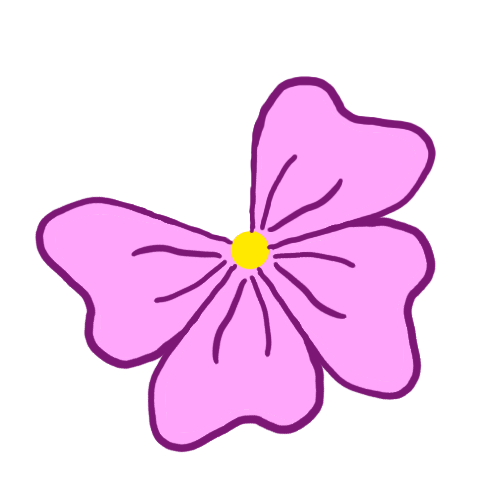
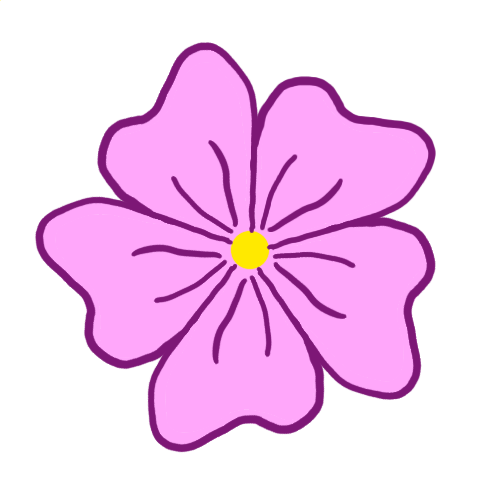
update logic of flower rendering

Changed region(s): [[0.18, 0.06, 0.54, 0.48]]

diff --git a/screens/ToDoList.jsx b/screens/ToDoList.jsx
@@ -1,21 +1,10 @@
 import * as React from 'react';
-import { FLOWER1, FLOWER2, FLOWER3, FLOWER4, FLOWER5, FLOWER6, FLOWER7, FLOWER8, FLOWERCENTER } from '../assets/images';
+import { FLOWER1, FLOWER2, FLOWER3, FLOWER4, FLOWER5, FLOWER6, FLOWER7, FLOWER8, FLOWERCENTER, flowerImages } from '../assets/images';
 import { useState, useEffect } from 'react';
 import { useFonts, Montserrat_800ExtraBold } from '@expo-google-fonts/montserrat';
 import AsyncStorage from '@react-native-async-storage/async-storage';
-import { StyleSheet, Image, Text, View, TextInput, TouchableOpacity, Pressable, KeyboardAvoidingView } from 'react-native';
-
-const flowerImages = [
-  FLOWERCENTER,
-  FLOWER1,
-  FLOWER2,
-  FLOWER3,
-  FLOWER4,
-  FLOWER5,
-  FLOWER6,
-  FLOWER7,
-  FLOWER8,
-];
+import { StyleSheet, Image, Text, View, TextInput, TouchableOpacity, Pressable, KeyboardAvoidingView, ScrollView } from 'react-native';
+import flowers from '../logic/setFlowers';
 
 const ToDoList = () => {
   const [task, setTask] = useState({text: '', done: false});
@@ -57,27 +46,6 @@ const ToDoList = () => {
     }
   }
 
-  const flowerPathLogic = (score) => {
-    const completeFlowers = Math.floor(score / 8);
-    const remainder = score % (flowerImages.length - 1);
-
-    let flowerRoutes = [];
-
-    for (let i = 0; i < completeFlowers; i++) {
-      flowerRoutes.push(8);
-    }
-
-    if (remainder !== 0) {
-      flowerRoutes.push(remainder);
-    }
-
-    if (flowerRoutes.length === 0) {
-      return [0];
-    }
-    console.log(flowerRoutes)
-    return flowerRoutes;
-  }
-
   const loadData = async () => {
     try {
       let storedDate = await AsyncStorage.getItem('date')
@@ -109,7 +77,7 @@ const ToDoList = () => {
     const loadFonts = async () => {
       await AsyncStorage.setItem('score', score.toString());
       await loadData();
-      setFlowerPaths(flowerPathLogic(score))
+      setFlowerPaths(flowers(score))
     }
     loadFonts();
   }, []);
@@ -140,14 +108,14 @@ const ToDoList = () => {
         updatedTasks[index].done = !updatedTasks[index].done
         setScore((prevScore) => {
           const newScore = prevScore + 1
-          setFlowerPaths(flowerPathLogic(newScore))
+          setFlowerPaths(flowers(newScore))
           return newScore
         })
       } else {
         updatedTasks[index].done = !updatedTasks[index].done
         setScore((prevScore) => {
           const newScore = prevScore - 1
-          setFlowerPaths(flowerPathLogic(newScore))
+          setFlowerPaths(flowers(newScore))
           return newScore
         })
       }
@@ -181,11 +149,12 @@ const ToDoList = () => {
         {/*   </Pressable> */}
       </View>
     <View style={{flex: 5}}>
-      <View style={styles.imageContainer}>
-        {flowerPaths.map((number, index) => (
-            <Image key={index} source={flowerImages[number]} style={styles.image}/>
+      <ScrollView horizontal={true} style={styles.imageContainer}>
+        {flowerPaths.slice(0).reverse().map((flower, index) => (
+            <Image key={index} source={flowerImages[flower.name][flower.routeNum]} style={styles.image}/>
         ))}
-      </View>
+      </ScrollView>
+          <ScrollView style={styles.tasksView}>
       {tasks.map((t, index) => (
         <View key={index} style={styles.taskContainer}>
           <TouchableOpacity
@@ -210,6 +179,7 @@ const ToDoList = () => {
           <Text style={t.done ? styles.completedTask : styles.normalTask}>{t.text}</Text>
         </View>
       ))}
+          </ScrollView>
         </View>
         <TextInput 
           value={task.text}
@@ -231,13 +201,20 @@ const styles = StyleSheet.create({
     flexDirection: 'column',
   },
     imageContainer: {
+    flexGrow: 1,
+    maxHeight: 85,
     flexDirection: 'row',
+    marginHorizontal: 10,
+    overflow: 'scroll',
   },
     image: {
-    width: 100,
-    height: 100,
-    margin: 10,
+    width: 80,
+    height: 80,
     resizeMode: 'cover',
+  },
+  tasksView: {
+    flexGrow: 15,
+
   },
   textInput: {
     backgroundColor: "black",
@@ -262,8 +239,8 @@ const styles = StyleSheet.create({
     flex: 1,
   },
    checkbox: {
-    width: 30,
-    height: 30,
+    width: 20,
+    height: 20,
     borderRadius: 15,
     borderWidth: 1,
     justifyContent: 'center',
@@ -275,13 +252,13 @@ const styles = StyleSheet.create({
   completedTask: {
     textDecorationLine: 'line-through',
     color: '#54428e',
-    fontSize: 30,
+    fontSize: 20,
     textAlign: 'center',
     flex: 9,
   },
   normalTask: {
     color: 'white',
-    fontSize: 30,
+    fontSize: 20,
     textAlign: 'center',
     flex: 9,
   },

diff --git a/logic/setFlowers.js b/logic/setFlowers.js
@@ -1,0 +1,39 @@
+const flowerNames = [
+  'sakura',
+  'sakuraRed',
+  'sakuraPurple',
+  'sakuraPeach',
+  'sakuraOrange',
+  'sakuraGreen',
+  'sakuraBlue'
+]
+
+const flowers = (score) => {
+  let completeFlowers = Math.floor(score / 5);
+  let allFlowerTypesNum = Math.floor(completeFlowers / flowerNames.length - 1);
+  let remainingCompleteFlowers = completeFlowers % (flowerNames.length - 1);
+  const remainder = score % (5);
+  const flowers = []
+
+  for (let i = 0; i < allFlowerTypesNum; i++) {
+    for (let j = 0; j < flowerNames.length; j++) {
+      flowers.push({
+        name: flowerNames[j],
+        routeNum: 5,
+      })
+    }
+  }
+  for (let i = 0; i < remainingCompleteFlowers; i++) {
+    flowers.push({
+      name: flowerNames[i],
+      routeNum: 5,
+    })
+  }
+
+  flowers.push({
+    name: flowerNames[remainingCompleteFlowers % flowerNames.length],
+    routeNum: remainder,
+  })
+  return flowers
+}
+export default flowers;

diff --git a/assets/images/index.js b/assets/images/index.js
@@ -1,4 +1,4 @@
-export const flowers = {
+export const flowerImages = {
   'sakura': {
     0: require('./Flowers/Sakura/SAKURA0.png'),
     1: require('./Flowers/Sakura/SAKURA1.png'),
